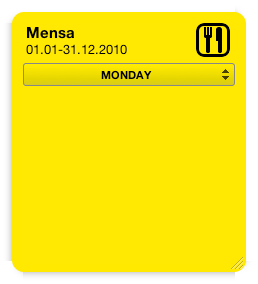
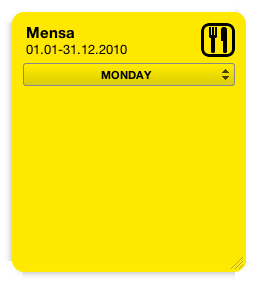
added cc notice

Changed region(s): [[0.7442, 0.0563, 0.9302, 0.2254], [0.8992, 0.9014, 0.9612, 0.9577]]

diff --git a/Cafeteria Menu - University of Kassel.dcproj/project/widget.wdgt/Parts/setup.js b/Cafeteria Menu - University of Kassel.dcproj/project/widget.wdgt/Parts/setup.js
@@ -9,6 +9,7 @@ var dashcodePartSpecs = {
     "cafeteria-name": { "text": "Mensa", "view": "DC.Text" },
     "cafeteriaChooser": { "creationFunction": "CreatePopupButton", "leftImageWidth": 5, "onchange": "changeCafeteria", "options": ["Item 1", "Item 2", "Item 3"], "rightImageWidth": 16 },
     "cafLabel": { "text": "Cafeteria", "view": "DC.Text" },
+    "copyStuff": { "text": "icon by  Joseph Wain (CC)", "view": "DC.Text" },
     "glassButton": { "creationFunction": "CreateGlassButton", "onclick": "showFront", "text": "Done" },
     "image": { "view": "DC.ImageLayout" },
     "info": { "backgroundStyle": "black", "creationFunction": "CreateInfoButton", "foregroundStyle": "white", "frontID": "front", "onclick": "resizeAndShowBack", "view": "DC.View" },
@@ -20,6 +21,7 @@ var dashcodePartSpecs = {
     "week": { "text": "01.01-31.12.2010", "view": "DC.Text" },
     "weekdayChooser": { "creationFunction": "CreatePopupButton", "leftImageWidth": 3, "onchange": "switchWeekday", "options": [["MONDAY", "0"], ["TUESDAY", "1"], ["WEDNESDAY", "2"], ["THURSDAY", "3"], ["FRIDAY", "4"]], "rightImageWidth": 16, "view": "DC.View" }
 };
+
 
 
 

diff --git a/Cafeteria Menu - University of Kassel.dcproj/project/widget.wdgt/main.html b/Cafeteria Menu - University of Kassel.dcproj/project/widget.wdgt/main.html
@@ -74,6 +74,7 @@
             <div id="cafLabel" apple-part="com.apple.Dashcode.part.text" class="apple-text apple-no-children" apple-default-image-visibility="hidden" apple-text-overflow="ellipsis" apple-style="part-height-dependent: true;part-width-dependent: true;"></div>
         </div>
         <div id="glassButton" apple-part="com.apple.Dashcode.part.glassbutton" class="apple-no-children"></div>
+        <div id="copyStuff" apple-part="com.apple.Dashcode.part.text" class="apple-text apple-no-children" apple-default-image-visibility="hidden" apple-text-overflow="ellipsis"></div>
     </div>
 </body>
 </html>

diff --git a/Cafeteria Menu - University of Kassel.dcproj/project/widget.wdgt/main.css b/Cafeteria Menu - University of Kassel.dcproj/project/widget.wdgt/main.css
@@ -37,8 +37,8 @@ tr {
     top: 0px;
     left: 0px;
     right: 0px;
-    bottom: 0px;
     width: auto;
+    bottom: 0px;
     height: auto;
 }
 
@@ -299,5 +299,25 @@ tr {
 }
 
 .selected #cafLabel {
+    color: white;
+}
+
+#copyStuff {
+    text-overflow: ellipsis;
+    overflow: hidden;
+    position: absolute;
+    margin-top: 0px;
+    font-family: 'Lucida Grande';
+    color: rgb(255, 255, 255);
+    font-size: 4pt;
+    top: 253px;
+    left: 30px;
+    right: 158px;
+    width: auto;
+    bottom: 24px;
+    height: auto;
+}
+
+.selected #copyStuff {
     color: white;
 }
